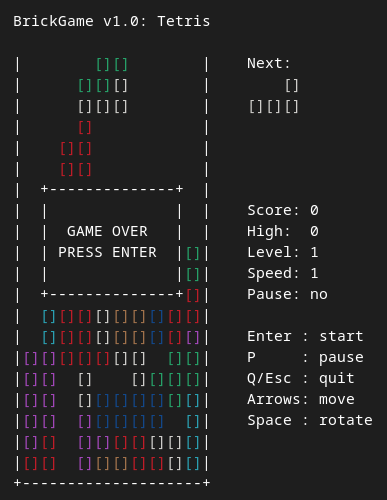
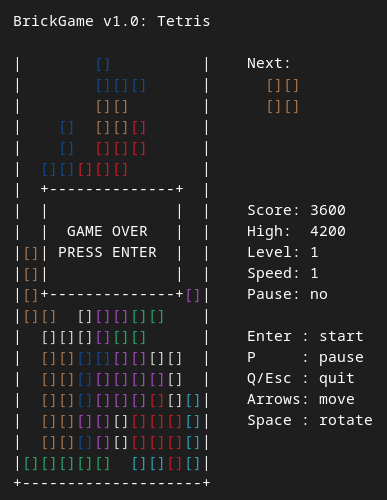
develop: replaced README images

diff --git a/README.md b/README.md
@@ -2,7 +2,7 @@
 
 Tetris implementation in C11 with a terminal interface based on `ncurses`.
 
-![start_game](docs/images/start_game.png) ![game_process](docs/images/game_process.png)
+![start_game](docs/images/start_game.png) ![game_over](docs/images/game_over.png)
 
 This repository currently covers the following:
 
